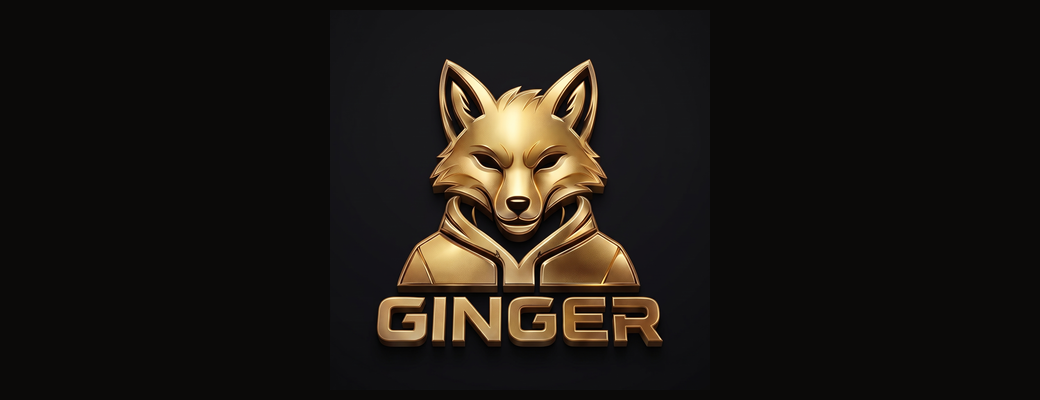
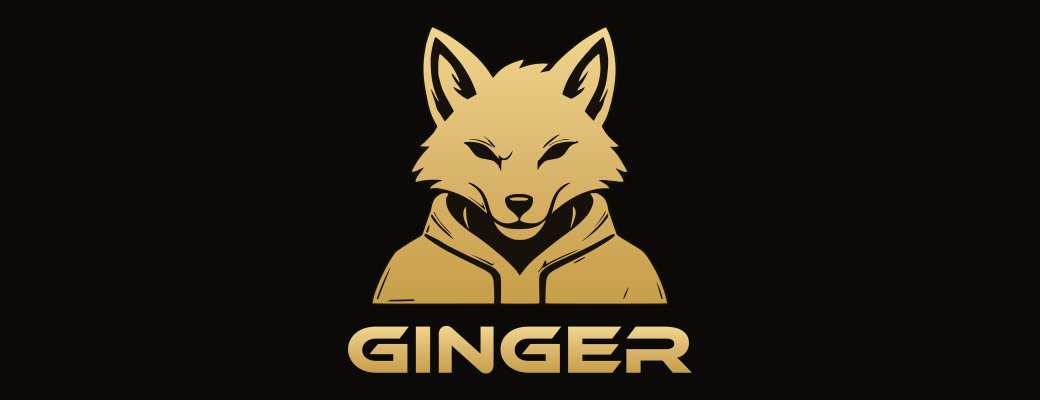
Логотип в векторе: плоская лиса на прозрачном фоне, крупнее в шапке главной
Лиса обведена potrace с логотипа 2026: тёмная подложка даёт контур и гравировку,
золото из темы. Полный логотип (лиса + GINGER) — на входе, установке, онбординге;
иконки, favicon.svg, значок уведомлений и шапка писем пересобраны из вектора.

Changed region(s): [[0.3077, 0.06, 0.6769, 0.93]]

diff --git a/frontend/src/components/brand/GingerFox.tsx b/frontend/src/components/brand/GingerFox.tsx
@@ -1,0 +1,52 @@
+import { useId } from "react";
+
+/**
+ * Лиса Ginger — плоский вектор, обведённый (potrace) с 3D-логотипа 2026 года.
+ * Два слоя: тёмная подложка даёт контур и гравированные линии, сверху золото.
+ * Фон прозрачный, золото берётся из темы — как у надписи GINGER.
+ * Координаты potrace: сетка ×10 с перевёрнутой осью Y, отсюда transform у группы.
+ */
+const VIEW_BOX = "40 34 1120 1052";
+const INK = "#16120b";
+const INK_PATH =
+  "M2745 10771 c-45 -19 -96 -119 -171 -334 -210 -602 -255 -1279 -134 -1992 113 -661 202 -972 358 -1249 82 -146 76 -189 -52 -366 -57 -78 -339 -362 -405 -408 -100 -68 -101 -124 -6 -172 86 -43 91 -109 15 -197 -153 -179 -420 -624 -404 -676 11 -37 43 -64 88 -76 84 -21 104 -73 69 -181 -27 -85 -25 -126 10 -157 32 -29 53 -34 100 -23 163 37 337 61 376 50 73 -19 93 -87 51 -167 -51 -98 10 -157 131 -128 120 27 175 -9 170 -113 -1 -13 -31 -54 -74 -100 -115 -123 -161 -229 -206 -469 -12 -64 -35 -141 -52 -180 -31 -67 -108 -288 -196 -558 -67 -206 -60 -196 -160 -258 -48 -30 -108 -64 -133 -77 -138 -70 -646 -402 -726 -473 -235 -212 -725 -1202 -864 -1748 -52 -201 -49 -237 20 -272 33 -16 152 -17 2272 -14 2237 2 2237 2 2261 25 50 47 124 47 174 0 25 -23 25 -23 748 -23 723 0 723 0 748 23 48 45 116 45 164 0 25 -23 25 -23 2271 -25 2439 -3 2283 -7 2313 54 55 110 -248 961 -489 1371 -38 64 -86 149 -107 187 -92 168 -232 355 -327 435 -102 87 -96 83 -698 447 -234 141 -242 148 -271 246 -12 39 -46 135 -76 212 -30 77 -68 189 -84 249 -16 60 -45 142 -64 184 -25 53 -41 110 -55 196 -37 223 -93 349 -204 460 -74 74 -88 103 -74 153 16 60 70 76 215 63 73 -7 109 43 86 118 -17 57 -3 115 33 138 30 20 73 20 240 -2 150 -19 206 -15 239 16 37 35 42 82 14 149 -41 100 -22 162 55 182 51 13 98 57 99 92 0 47 -263 504 -367 637 -89 115 -91 164 -6 240 47 43 54 55 51 92 0 10 -76 82 -168 161 -160 138 -228 211 -334 362 -104 147 -106 187 -20 340 202 361 401 1219 418 1806 16 541 -113 1220 -304 1604 -92 185 -103 186 -417 19 -534 -284 -1021 -650 -1495 -1123 -189 -188 -223 -201 -308 -119 -34 33 -34 33 -171 36 -160 4 -348 -11 -482 -40 -160 -34 -189 -24 -216 70 -39 136 -92 139 -415 19 -290 -108 -455 -204 -615 -359 -149 -144 -185 -141 -302 19 -439 602 -1191 1212 -1909 1548 -170 80 -197 89 -228 76z";
+const GOLD_PATH =
+  "M2726 10637 c-190 -416 -300 -1027 -282 -1557 9 -255 21 -369 66 -635 117 -684 193 -945 366 -1250 41 -72 74 -138 74 -148 0 -16 -56 -115 -129 -227 -46 -70 -381 -412 -443 -452 -27 -17 -48 -35 -48 -39 0 -17 60 -24 198 -22 78 1 142 1 142 -1 0 -1 -34 -38 -76 -82 -124 -128 -216 -236 -285 -333 -149 -212 -310 -494 -291 -513 22 -22 131 10 288 86 85 41 154 72 154 68 0 -4 -25 -38 -56 -77 -162 -200 -237 -322 -250 -403 -8 -49 2 -56 58 -43 217 51 395 72 590 72 109 0 214 -3 233 -6 19 -3 51 -8 71 -11 45 -7 36 -16 -36 -39 -98 -31 -269 -126 -327 -182 -61 -59 -73 -100 -25 -89 123 31 227 24 466 -29 357 -78 678 -209 956 -387 168 -108 389 -277 516 -395 102 -93 134 -117 134 -95 0 48 -142 509 -185 599 -46 100 -128 217 -199 289 -57 56 -227 177 -288 205 -33 15 -36 29 -7 29 37 0 143 -31 179 -52 67 -38 235 -163 274 -203 99 -101 224 -337 261 -495 32 -137 106 -362 140 -431 27 -52 107 -134 202 -205 187 -141 488 -157 726 -37 61 30 76 61 55 107 -28 57 -156 192 -247 260 -140 103 -176 152 -226 300 -49 146 -23 213 104 270 119 53 199 67 401 68 209 1 282 -13 416 -76 87 -41 99 -66 92 -186 -8 -143 -106 -302 -237 -387 -94 -61 -182 -148 -205 -204 -10 -24 -24 -56 -32 -70 -19 -36 2 -63 74 -95 161 -72 415 -89 567 -40 220 71 344 217 428 501 129 436 220 612 407 788 96 91 258 177 344 184 l51 4 -35 -22 c-180 -113 -318 -234 -397 -349 -71 -104 -143 -281 -198 -490 -20 -74 -45 -164 -56 -199 -10 -35 -19 -67 -19 -72 0 -21 21 -6 42 31 13 21 32 43 43 48 11 5 65 47 119 92 480 397 968 639 1476 730 116 21 351 32 415 19 15 -3 19 1 17 15 -10 57 -125 152 -277 229 l-100 50 40 10 c61 14 273 1 545 -33 291 -37 324 -36 328 2 6 49 -112 251 -231 396 -33 40 -58 75 -55 78 3 3 55 -19 114 -49 114 -57 181 -81 250 -92 76 -12 73 2 -41 207 -178 321 -301 496 -453 646 l-84 83 94 -7 c98 -7 198 7 217 30 8 9 -28 45 -148 148 -87 75 -185 169 -218 209 -74 91 -173 229 -173 241 0 5 -16 32 -35 61 -19 28 -35 60 -35 71 0 11 26 65 59 120 112 192 140 260 221 530 171 569 256 1215 221 1662 -40 492 -147 946 -293 1238 l-49 98 -35 -5 c-75 -12 -554 -283 -789 -446 -417 -289 -874 -689 -1120 -981 -148 -175 -149 -176 -235 -183 -42 -4 -114 -17 -160 -31 -47 -13 -87 -23 -89 -20 -8 8 76 104 177 200 139 133 138 134 -52 134 -305 0 -526 -40 -826 -149 -96 -35 -99 -36 -82 -19 7 7 12 20 12 29 0 9 7 23 17 30 9 8 25 34 36 59 11 25 38 71 60 102 40 58 43 88 10 88 -61 -1 -345 -99 -512 -176 -200 -93 -386 -243 -530 -426 -29 -38 -56 -68 -60 -68 -5 0 -37 46 -72 102 -138 222 -309 435 -501 630 -311 312 -776 668 -1178 898 -146 84 -463 240 -488 240 -7 0 -28 -33 -46 -73z m310 -401 c71 -62 170 -153 219 -202 88 -86 400 -440 518 -587 123 -152 315 -460 422 -676 89 -179 219 -511 209 -535 -3 -6 -35 -26 -72 -43 -37 -18 -110 -58 -162 -89 l-94 -57 -74 38 c-172 88 -376 263 -433 369 -29 56 -22 64 28 33 111 -70 243 -124 243 -99 0 13 -70 113 -139 198 -117 144 -255 414 -212 414 21 0 118 -114 215 -252 26 -38 52 -68 57 -68 51 0 -105 349 -256 575 -81 121 -142 188 -318 355 -158 148 -156 149 -180 -35 -14 -98 -20 -207 -21 -365 -1 -223 -1 -226 33 -365 97 -406 132 -490 387 -941 85 -150 154 -280 154 -290 0 -11 -47 -71 -105 -134 -57 -63 -126 -141 -152 -172 -75 -88 -69 -90 -150 49 -26 46 -77 124 -113 175 -104 147 -107 156 -154 341 -25 97 -63 221 -85 276 -42 105 -84 253 -79 279 2 9 29 -38 61 -104 60 -122 185 -331 212 -354 27 -23 18 12 -34 121 -110 233 -193 536 -226 824 -29 259 -38 569 -20 738 31 290 132 697 173 697 10 0 76 -51 148 -114z m6086 34 c67 -188 136 -547 145 -756 10 -230 -43 -726 -101 -949 -36 -137 -129 -389 -190 -515 -36 -75 -43 -100 -28 -100 28 0 125 151 229 360 71 141 82 158 77 120 -11 -84 -51 -208 -103 -322 -12 -26 -31 -88 -41 -137 -38 -174 -103 -310 -195 -407 -33 -34 -66 -89 -111 -182 -35 -74 -67 -132 -72 -130 -10 3 -283 292 -316 334 -24 30 -28 21 128 299 275 488 335 629 398 940 42 208 48 414 19 645 -12 91 -21 184 -21 207 0 23 -5 45 -11 48 -18 12 -83 -40 -221 -177 -240 -238 -374 -431 -487 -702 -84 -201 -58 -187 171 94 47 58 98 116 113 130 l27 25 -7 -25 c-11 -38 -127 -266 -172 -340 -22 -36 -81 -121 -131 -190 -91 -125 -108 -160 -74 -160 23 0 103 38 185 88 39 24 67 36 67 29 0 -30 -81 -145 -145 -206 -71 -67 -320 -221 -358 -221 -27 0 -317 149 -324 165 -11 31 105 341 202 540 72 148 296 502 409 645 83 106 395 469 476 554 126 132 400 377 418 374 11 -2 27 -30 44 -78z m-1664 -3540 c-7 -11 -20 -20 -28 -20 -9 0 -42 -25 -75 -54 -33 -30 -71 -61 -85 -68 -14 -7 -75 -58 -136 -113 -236 -213 -269 -240 -272 -221 -16 82 368 415 556 482 50 18 54 17 40 -6z m-2637 -147 c88 -72 233 -222 255 -265 8 -16 14 -39 12 -51 -6 -43 -232 196 -284 300 -3 7 -29 28 -57 47 -29 18 -61 44 -72 57 -20 23 -20 23 25 -2 25 -14 79 -52 121 -86z m-376 -23 c181 -34 402 -131 497 -219 68 -62 81 -102 16 -46 -23 19 -54 38 -68 42 -14 3 -54 23 -90 44 -72 42 -220 102 -350 143 -67 22 -109 28 -200 30 -131 4 -132 4 -105 17 24 11 217 4 300 -11z m3353 13 c83 -9 41 -23 -73 -23 -208 0 -371 -49 -565 -170 -138 -85 -138 -85 -86 -35 59 55 252 153 366 185 143 41 262 55 358 43z m361 -90 c30 -19 23 -25 -79 -58 -175 -57 -235 -105 -351 -283 -128 -196 -229 -262 -449 -297 -190 -30 -264 -46 -318 -71 -99 -44 -244 -207 -274 -306 -6 -21 -14 -38 -18 -38 -13 0 -22 165 -15 247 9 96 18 121 48 132 22 9 46 36 192 221 174 219 313 326 505 388 186 61 443 84 665 59 15 -1 19 3 17 17 -3 16 1 17 25 12 15 -4 39 -14 52 -23z m-3810 -18 c319 -47 495 -157 746 -469 79 -99 129 -145 141 -133 3 3 -3 33 -14 66 -11 34 -17 61 -12 61 5 0 34 -22 65 -49 100 -88 137 -97 223 -53 68 34 146 117 195 208 l38 69 -4 -47 c-10 -109 -104 -246 -203 -294 -47 -23 -64 -26 -119 -22 -39 4 -68 1 -74 -5 -7 -7 -11 -76 -12 -186 -1 -97 -4 -187 -9 -201 -8 -28 -8 -27 -34 55 -9 28 -25 56 -37 63 -15 10 -19 20 -15 37 5 19 -8 37 -76 105 -45 45 -98 90 -118 100 -44 22 -177 53 -345 80 -225 36 -323 99 -464 300 -112 161 -151 202 -230 244 -40 21 -70 43 -68 49 11 36 244 48 426 22z m-129 -2068 c41 -28 112 -80 157 -116 135 -106 246 -182 254 -174 4 4 1 35 -6 68 -27 114 -2 76 56 -87 44 -123 43 -118 28 -118 -13 0 -49 30 -187 158 -105 98 -208 180 -344 278 -125 89 -95 83 42 -9z M3170 4580 c-65 -14 -97 -28 -172 -77 -152 -99 -218 -222 -267 -491 -14 -78 -34 -144 -65 -215 -24 -56 -52 -129 -61 -162 -10 -33 -44 -134 -77 -224 -33 -90 -70 -205 -83 -254 -17 -63 -33 -99 -52 -119 -28 -30 -162 -116 -243 -158 -114 -58 -596 -368 -695 -447 -163 -130 -572 -887 -759 -1406 -93 -256 -152 -501 -126 -517 9 -6 843 -9 2245 -7 l2230 2 6 45 c12 87 -9 750 -25 823 -35 157 -101 239 -277 344 -57 35 -397 207 -756 383 -652 321 -857 432 -1129 614 -339 226 -399 275 -389 315 18 71 44 70 173 -3 45 -25 144 -75 220 -110 77 -35 180 -91 228 -124 156 -104 219 -139 522 -291 327 -164 550 -270 775 -368 82 -35 214 -97 295 -137 81 -40 174 -83 207 -96 33 -14 75 -37 93 -52 29 -25 44 -32 63 -30 14 2 178 -176 197 -213 51 -101 55 -133 59 -435 2 -157 0 -366 -5 -465 -4 -99 -6 -186 -4 -192 3 -10 154 -13 708 -13 662 0 705 1 712 18 9 23 9 185 -2 567 -12 447 -1 502 130 644 108 116 305 232 664 390 80 35 224 101 320 146 96 46 249 115 340 155 206 90 680 333 975 502 136 78 307 159 328 156 13 -2 25 -14 31 -31 9 -24 6 -31 -25 -63 -57 -59 -169 -139 -397 -282 -341 -214 -470 -284 -1062 -578 -937 -465 -971 -489 -1031 -722 -28 -110 -57 -855 -35 -891 11 -17 4486 -15 4487 2 1 6 1 15 0 20 -58 351 -279 937 -489 1295 -38 64 -86 149 -107 187 -87 159 -221 340 -305 412 -89 77 -112 91 -645 412 -310 187 -315 191 -350 316 -10 33 -44 129 -77 213 -32 85 -70 197 -84 250 -14 54 -44 135 -66 182 -30 64 -43 109 -54 185 -42 293 -128 436 -330 550 l-89 50 -112 0 c-138 0 -146 -5 -98 -71 88 -122 104 -211 60 -351 -39 -127 -117 -285 -182 -372 -140 -188 -470 -485 -754 -680 -48 -32 -135 -96 -195 -142 -60 -45 -174 -132 -254 -193 -159 -121 -408 -322 -679 -547 -236 -196 -386 -353 -516 -538 -29 -42 -68 -93 -87 -114 l-33 -39 -80 119 c-130 194 -427 478 -890 854 -311 252 -613 476 -791 587 -130 81 -469 358 -587 481 -254 264 -370 489 -371 721 -1 95 -1 96 42 167 46 78 51 98 25 107 -30 12 -128 15 -173 6z m6000 -689 c0 -71 -197 -346 -384 -536 -54 -55 -80 -77 -57 -50 24 28 77 91 119 140 86 102 224 308 273 408 36 73 49 83 49 38z m-6299 -63 c102 -203 172 -296 410 -546 138 -145 219 -244 183 -224 -20 11 -183 175 -305 308 -133 145 -339 461 -339 522 0 35 7 27 51 -60z m6393 -29 c14 -69 8 -83 -88 -210 -178 -235 -393 -439 -706 -668 -90 -66 -166 -118 -168 -116 -9 8 22 37 98 93 41 30 122 103 180 161 58 59 155 153 215 211 123 117 217 231 355 428 51 72 96 132 100 132 4 0 10 -14 14 -31z m-6409 -139 c54 -80 122 -175 151 -211 48 -60 253 -260 302 -295 20 -14 231 -247 247 -273 26 -43 -250 176 -404 321 -207 194 -431 468 -431 527 0 26 21 82 30 79 4 -2 51 -68 105 -148z m-192 -287 c-3 -27 -16 -91 -28 -143 -20 -90 -23 -95 -49 -98 -53 -7 -56 1 -29 75 33 93 92 213 103 213 6 0 7 -20 3 -47z m5477 -891 c-52 -26 -111 -57 -130 -69 -35 -21 -171 -85 -445 -208 -328 -148 -468 -224 -605 -330 -28 -22 -56 -35 -75 -35 -34 0 -104 -65 -165 -152 -36 -52 -55 -63 -40 -22 17 44 28 61 97 142 52 62 71 92 80 131 12 49 55 123 87 150 27 22 39 3 34 -56 -6 -69 5 -74 66 -33 59 40 394 203 556 270 227 94 414 172 515 216 132 56 143 54 25 -4z m-3765 -235 c203 -81 483 -209 556 -253 75 -45 87 -43 90 19 1 20 2 20 9 -3 16 -50 12 -80 -12 -80 -12 0 -29 -7 -39 -16 -17 -15 -21 -14 -61 21 -25 21 -184 107 -383 206 -186 93 -342 173 -345 176 -6 7 -16 11 185 -70z m4045 -27 c0 -27 -320 -208 -397 -225 -106 -22 52 84 277 186 113 52 120 54 120 39z m-7275 -581 c-47 -118 -95 -236 -106 -264 -12 -27 -38 -95 -59 -150 -21 -55 -65 -168 -98 -252 -33 -83 -70 -182 -82 -220 -13 -37 -27 -74 -33 -80 -13 -18 -47 -16 -47 2 0 53 126 387 278 735 70 162 220 455 229 447 2 -2 -35 -100 -82 -218z m10059 -684 c44 -138 76 -252 76 -274 0 -16 -35 -14 -49 3 -6 7 -27 76 -47 152 -20 77 -58 212 -85 302 -27 90 -49 166 -48 170 3 24 116 -237 153 -353z m-1223 31 c-58 -161 -99 -257 -118 -278 -21 -24 -48 -24 -38 0 4 9 24 64 46 121 43 114 140 302 147 283 2 -7 -15 -63 -37 -126z m-7886 -342 c68 -45 19 -49 -650 -58 -329 -4 -447 3 -317 18 66 8 83 18 54 32 -10 5 173 11 433 14 248 3 451 6 453 8 1 1 14 -5 27 -14z M5763 4419 c-79 -9 -133 -31 -133 -54 0 -7 26 -24 58 -37 54 -22 69 -23 292 -23 211 1 240 3 285 21 59 23 63 43 15 65 -77 36 -330 50 -517 28z M7959 4094 c-1 -5 0 -81 0 -169 2 -172 -7 -242 -59 -466 -35 -148 -37 -167 -15 -149 40 33 154 341 175 471 14 85 3 165 -30 234 -20 42 -69 96 -71 79z M3969 4033 c-58 -93 -75 -220 -44 -348 29 -126 133 -362 176 -401 25 -22 24 -20 -11 113 -56 216 -70 312 -72 504 -1 99 -6 179 -10 179 -5 0 -22 -21 -39 -47z M6852 3509 c-106 -99 -179 -142 -322 -187 -149 -48 -235 -60 -473 -65 -288 -7 -480 10 -609 53 -116 39 -330 154 -370 199 -45 51 -45 30 2 -61 123 -242 314 -420 559 -523 147 -62 189 -70 361 -70 187 1 270 19 430 97 95 46 114 60 216 162 116 116 203 236 269 369 61 123 46 129 -63 26z";
+
+type Props = {
+  className?: string;
+  title?: string;
+};
+
+export function GingerFox({ className, title }: Props) {
+  const gradientId = `ginger-fox-${useId().replace(/:/g, "")}`;
+  return (
+    <svg
+      viewBox={VIEW_BOX}
+      role={title ? "img" : undefined}
+      aria-label={title}
+      aria-hidden={title ? undefined : true}
+      className={className}
+      data-testid="ginger-fox"
+    >
+      <defs>
+        <linearGradient
+          id={gradientId}
+          gradientUnits="userSpaceOnUse"
+          x1="0"
+          y1="10800"
+          x2="0"
+          y2="500"
+        >
+          <stop offset="0" style={{ stopColor: "var(--gold-hi)" }} />
+          <stop offset="0.55" style={{ stopColor: "var(--gold)" }} />
+          <stop offset="1" style={{ stopColor: "var(--gold-lo)" }} />
+        </linearGradient>
+      </defs>
+      <g transform="translate(0,1120) scale(0.1,-0.1)">
+        <path fill={INK} d={INK_PATH} />
+        <path fill={`url(#${gradientId})`} d={GOLD_PATH} />
+      </g>
+    </svg>
+  );
+}

diff --git a/frontend/src/pages/PlayerHomePage.tsx b/frontend/src/pages/PlayerHomePage.tsx
@@ -2,6 +2,7 @@ import { Link } from "react-router-dom";
 
 import { ApiError } from "@/api/client";
 import { ModerationNotice } from "@/features/auth/ModerationNotice";
+import { GingerFox } from "@/components/brand/GingerFox";
 import { GingerWordmark } from "@/components/brand/GingerWordmark";
 import { isStaffUser, useMe } from "@/features/auth/hooks";
 import { RequestRow } from "@/features/chips/components/RequestRow";
@@ -64,15 +65,13 @@ export function PlayerHomePage() {
   const replies = (threads.data ?? []).filter((thread) => thread.unread);
   return (
     <div className="bg-bg min-h-full px-3 pb-4" data-testid="player-home">
-      <header className="grid grid-cols-[minmax(0,1fr)_auto_minmax(0,1fr)] items-center gap-2 pt-3.5 pb-3">
-        <img
-          src="/icons/ginger-mark-192.png"
-          alt=""
-          aria-hidden="true"
-          className="h-7 w-7 rounded-full"
-        />
-        <GingerWordmark className="h-[16px] w-auto" />
-        <span className="flex min-w-0 justify-end">
+      {/* Логотип крупно (Иван, 28.09: мелкий не видно): лиса и надпись в строку. */}
+      <header className="flex items-center gap-3 pt-3 pb-2.5">
+        <span className="flex shrink-0 items-center gap-2.5">
+          <GingerFox className="h-12 w-auto" />
+          <GingerWordmark className="h-[21px] w-auto" />
+        </span>
+        <span className="flex min-w-0 flex-1 justify-end">
           {user ? (
             <span className="text-ink-3 truncate text-[12px] font-semibold">{user.nickname}</span>
           ) : guest ? (

diff --git a/frontend/src/pages/admin/AdminLayout.tsx b/frontend/src/pages/admin/AdminLayout.tsx
@@ -3,6 +3,7 @@ import { Link, NavLink, Outlet, useLocation, useNavigate } from "react-router-do
 
 import type { UserRole } from "@/api/types/auth";
 import { useAdminDesktop } from "@/components/admin/useAdminDesktop";
+import { GingerFox } from "@/components/brand/GingerFox";
 import { GingerWordmark } from "@/components/brand/GingerWordmark";
 import { useConfirm } from "@/components/ui/ConfirmDialog";
 import {
@@ -76,12 +77,7 @@ function SidebarNav({ showUsers, onNavigate }: { showUsers: boolean; onNavigate?
         onClick={onNavigate}
         className="text-ink hover:bg-surface-2 mb-[18px] flex cursor-pointer items-center gap-[7px] rounded-[10px] px-2 pt-1.5 text-[17px] font-extrabold"
       >
-        <img
-          src="/icons/ginger-mark-192.png"
-          alt=""
-          aria-hidden="true"
-          className="h-6 w-6 rounded-full"
-        />
+        <GingerFox className="h-8 w-auto" />
         <GingerWordmark className="h-[13px] w-auto" />
         <small className="text-ink-3 ml-1 text-[11px] font-bold tracking-[0.08em] uppercase">
           админка

diff --git a/frontend/src/components/brand/GingerLogo.tsx b/frontend/src/components/brand/GingerLogo.tsx
@@ -1,0 +1,26 @@
+import { GingerFox } from "@/components/brand/GingerFox";
+import { GingerWordmark } from "@/components/brand/GingerWordmark";
+import { cn } from "@/lib/utils";
+
+type Props = {
+  /** Ширину задаёт className (w-…): лиса и надпись масштабируются вместе. */
+  className?: string;
+};
+
+/**
+ * Полный логотип для крупных экранов (вход, установка, онбординг): лиса над надписью.
+ * В мелких местах — только лиса (GingerFox) или лиса рядом с надписью в строку.
+ */
+export function GingerLogo({ className }: Props) {
+  return (
+    <div
+      role="img"
+      aria-label="Ginger"
+      className={cn("flex flex-col items-center", className)}
+      data-testid="ginger-logo"
+    >
+      <GingerFox className="w-[87%]" />
+      <GingerWordmark className="mt-[6%] h-auto w-full" title="" />
+    </div>
+  );
+}

diff --git a/frontend/src/components/auth/AuthShell.tsx b/frontend/src/components/auth/AuthShell.tsx
@@ -1,4 +1,5 @@
 import type { ReactNode } from "react";
+import { GingerLogo } from "@/components/brand/GingerLogo";
 import { useLocation, useNavigate } from "react-router-dom";
 
 const iconClass =
@@ -50,12 +51,8 @@ export function AuthShell({ children, onBack, toast }: Props) {
         </div>
 
         {/* Крупный экран — логотип с надписью; в мелких местах — лиса без надписи. */}
-        <div className="mt-2 mb-1.5 flex">
-          <img
-            src="/brand/ginger-logo-600.webp"
-            alt="Ginger"
-            className="deco-logo h-[132px] w-[132px]"
-          />
+        <div className="mt-1 mb-1.5 flex justify-center">
+          <GingerLogo className="w-[156px]" />
         </div>
         <div aria-hidden="true" className="deco-rule mt-4 mb-1" />
 

diff --git a/frontend/src/pages/OnboardingPage.tsx b/frontend/src/pages/OnboardingPage.tsx
@@ -1,4 +1,5 @@
 import { useState } from "react";
+import { GingerLogo } from "@/components/brand/GingerLogo";
 import { useNavigate } from "react-router-dom";
 
 import { InstallSteps } from "@/features/onboarding/InstallSteps";
@@ -36,11 +37,7 @@ export function OnboardingPage() {
       <div className="flex-1">
         {step === "welcome" ? (
           <>
-            <img
-              src="/brand/ginger-logo-600.webp"
-              alt="Ginger"
-              className="deco-logo h-[168px] w-[168px]"
-            />
+            <GingerLogo className="w-[170px]" />
             <h1 className="mt-6 text-[26px] leading-tight font-extrabold tracking-tight">
               Ginger — фишки, расписание, связь
             </h1>

diff --git a/frontend/src/index.css b/frontend/src/index.css
@@ -565,18 +565,6 @@ html.ginger-layout-wide [data-mobile-nav] {
   }
 }
 
-/* Логотип с надписью на крупных экранах: картинка на чёрном, в двойной рамке —
-   в тёмной теме сливается с фоном, в светлой читается как табличка. */
-@utility deco-logo {
-  display: block;
-  background: #0b0a09;
-  box-shadow:
-    0 0 0 3px var(--bg),
-    0 0 0 4px var(--frame-hi-outer),
-    0 0 0 8px var(--bg),
-    0 0 0 9px var(--frame-inner);
-}
-
 /* Орнамент-разделитель: линия, ромб, линия. */
 @utility deco-rule {
   position: relative;

diff --git a/frontend/src/pages/InstallPage.tsx b/frontend/src/pages/InstallPage.tsx
@@ -1,4 +1,5 @@
 import { Link } from "react-router-dom";
+import { GingerLogo } from "@/components/brand/GingerLogo";
 
 import { InstallSteps } from "@/features/onboarding/InstallSteps";
 
@@ -10,11 +11,7 @@ export function InstallPage() {
         ← Главная
       </Link>
       <div className="pt-6">
-        <img
-          src="/brand/ginger-logo-600.webp"
-          alt="Ginger"
-          className="deco-logo h-[144px] w-[144px]"
-        />
+        <GingerLogo className="w-[150px]" />
         <h1 className="mt-6 text-[19px] font-bold tracking-[0.18em] uppercase">
           Установите Ginger
         </h1>

diff --git a/frontend/index.html b/frontend/index.html
@@ -31,6 +31,7 @@
         if (meta) meta.setAttribute("content", resolved === "light" ? "#F4EEE2" : "#0B0A09");
       })();
     </script>
+    <link rel="icon" type="image/svg+xml" href="/favicon.svg" />
     <link rel="icon" type="image/png" sizes="48x48" href="/favicon-48.png" />
     <link rel="apple-touch-icon" href="/apple-touch-icon.png" />
     <link
